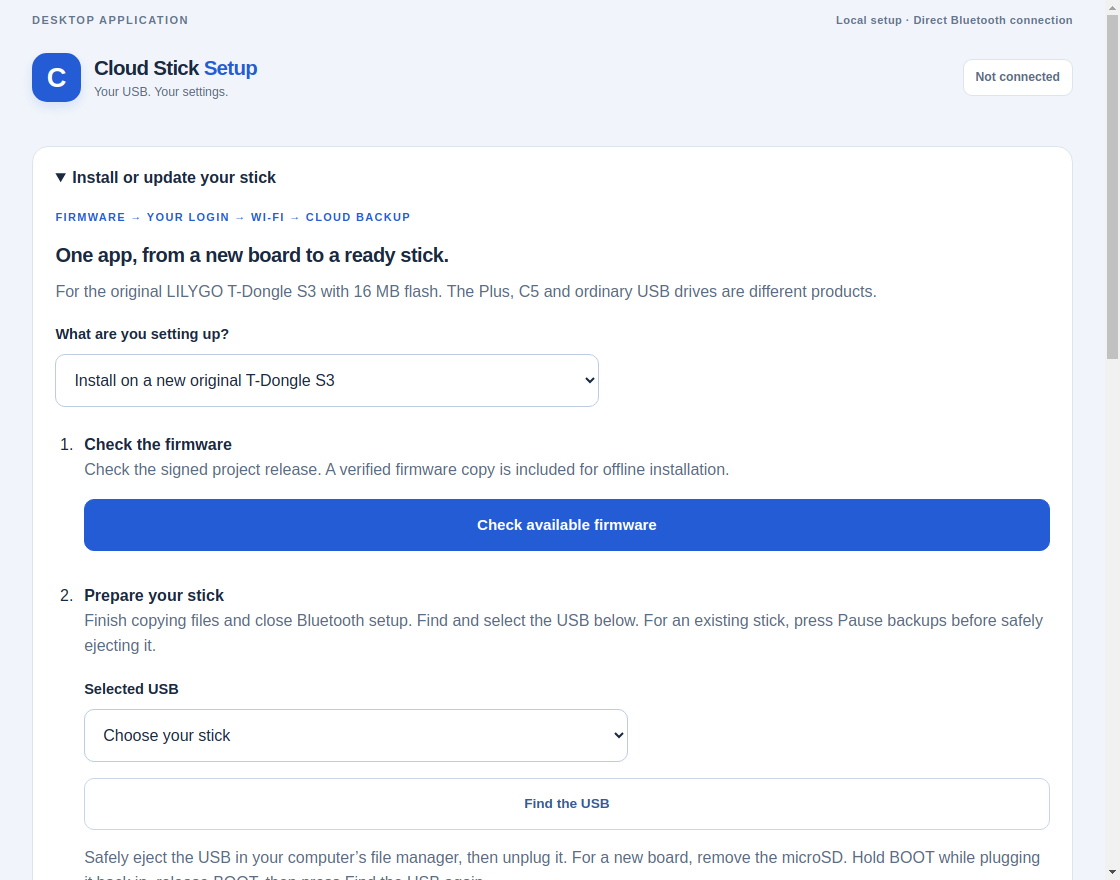
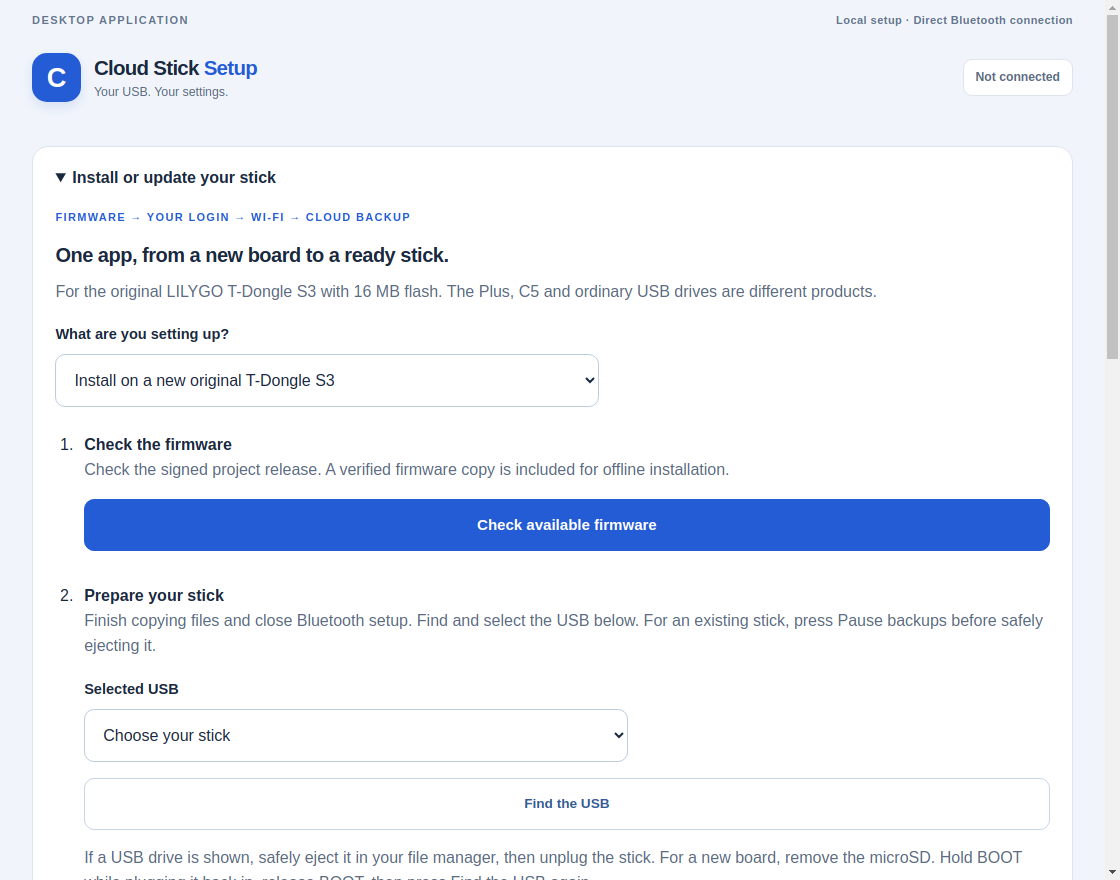
Explain microSD return after first-account setup

Changed region(s): [[0.0625, 0.9511, 0.9375, 1.0]]

diff --git a/desktop/frontend/index.html b/desktop/frontend/index.html
@@ -21,7 +21,7 @@
     <select id="firmware-mode"><option value="existing">Update my existing Cloud Stick</option><option value="new">Install on a new original T-Dongle S3</option></select>
     <ol class="firmware-steps">
      <li><strong>Check the firmware</strong><p>Check the signed project release. A verified firmware copy is included for offline installation.</p><button id="firmware-check" type="button" disabled>Check available firmware</button></li>
-     <li><strong>Prepare your stick</strong><p>Finish copying files and close Bluetooth setup. Find and select the USB below. For an existing stick, press Pause backups before safely ejecting it.</p><label for="firmware-ports">Selected USB</label><select id="firmware-ports"><option value="">Choose your stick</option></select><div class="desktop-actions"><button id="firmware-ports-refresh" type="button" class="wizard-secondary" disabled>Find the USB</button><button id="firmware-prepare" type="button" class="wizard-secondary" disabled>Pause backups for update</button></div><p>Safely eject the USB in your computer’s file manager, then unplug it. For a new board, remove the microSD. Hold BOOT while plugging it back in, release BOOT, then press Find the USB again.</p></li>
+     <li><strong>Prepare your stick</strong><p>Finish copying files and close Bluetooth setup. Find and select the USB below. For an existing stick, press Pause backups before safely ejecting it.</p><label for="firmware-ports">Selected USB</label><select id="firmware-ports"><option value="">Choose your stick</option></select><div class="desktop-actions"><button id="firmware-ports-refresh" type="button" class="wizard-secondary" disabled>Find the USB</button><button id="firmware-prepare" type="button" class="wizard-secondary" disabled>Pause backups for update</button></div><p>If a USB drive is shown, safely eject it in your file manager, then unplug the stick. For a new board, remove the microSD. Hold BOOT while plugging it back in, release BOOT, then press Find the USB again.</p></li>
      <li><strong>Install and verify</strong><p>The app checks the board and makes two encrypted recovery copies before writing. Recovery checks can take a while. Keep the USB connected and the computer powered.</p><button id="firmware-install" type="button" disabled>Review and install firmware</button><button id="firmware-resume" type="button" hidden disabled>Review and resume interrupted install</button></li>
     </ol>
     <progress id="firmware-progress" max="1" value="0" hidden aria-label="Firmware operation progress"></progress>
@@ -50,6 +50,7 @@
     <p id="wizard-description" class="wizard-description">One step at a time. Start with the stick plugged into this computer.</p>
    </div>
     <p id="wizard-message" class="wizard-message" role="status" aria-live="polite"></p>
+    <p id="wizard-card-reminder" class="notice" role="status" hidden>The first-account step required the microSD to be out. Finish Wi-Fi and cloud setup, then press Finish and wait for Bluetooth to close. If the card is still out, safely eject any drive shown, unplug the stick, insert the card while unplugged and reconnect normally. Your login and settings stay saved.</p>
     <p id="wizard-access-retirement" class="notice" role="status" hidden></p>
    <section class="wizard-panel" data-wizard-step="welcome" aria-labelledby="wizard-title">
     <div class="wizard-welcome-art" aria-hidden="true"><span class="wizard-usb-mark">CS</span><span class="wizard-link-mark"></span><span class="wizard-screen-mark">QA</span><span class="welcome-art-label">Your backup starts here.</span></div>
@@ -230,14 +231,14 @@
    </section>
    <section class="wizard-panel" data-wizard-step="finish" aria-labelledby="wizard-title" hidden>
     <div class="wizard-finish-mark" aria-hidden="true">✓</div>
-    <h2>Ready to leave it plugged in.</h2>
+    <h2 id="wizard-finish-title">Ready to leave it plugged in.</h2>
     <p id="wizard-finish-message" class="wizard-lead">Review your saved settings, then close Bluetooth setup. The stick checks Wi-Fi and cloud access before it can resume backups.</p>
     <p class="notice">Saved settings are not proof that a file has uploaded. The backup records show which file versions passed their cloud check.</p>
     <div class="wizard-finish-actions">
      <button id="wizard-disconnect" type="button">Finish — disconnect Bluetooth</button>
      <button id="wizard-records" type="button" class="wizard-secondary">View backup records</button>
     </div>
-    <p class="hint">Disconnect means closing the app’s Bluetooth session. Leave the USB physically plugged in.</p>
+    <p id="wizard-finish-hint" class="hint">Disconnect means closing the app’s Bluetooth session. Leave the USB physically plugged in.</p>
    </section>
    <section class="wizard-panel" data-wizard-step="records" aria-labelledby="wizard-title" hidden>
     <div class="records-toolbar"><div><p class="eyebrow">RECORDED / NOT LIVE</p><p id="records-read-at" class="snapshot-note"></p></div><button id="records-refresh" type="button" class="wizard-secondary">Refresh saved records</button></div><p id="records-message" class="notice" role="status" aria-live="polite"></p>

diff --git a/desktop/cloudstick_desktop/main.py b/desktop/cloudstick_desktop/main.py
@@ -269,7 +269,7 @@ class Bridge(QObject):
                           'existing': 'Update this existing Cloud Stick',
                           'resume': 'Resume the interrupted installation'}[data['mode']]
                 text = (action + '?\n\nFirmware: ' + target + '\nUSB port: ' + data['port'] +
-                        '\n\nConfirm this is the ORIGINAL 16 MB T-Dongle S3. Close file copies, safely eject it, '
+                        '\n\nConfirm this is the ORIGINAL 16 MB T-Dongle S3. Close file copies, safely eject any USB drive shown for it, unplug it, '
                         'then hold BOOT while plugging it back in and release BOOT. '
                         'Remove the microSD before installing a new board.\n\n'
                         'The app first makes and checks two private encrypted recovery copies. '

diff --git a/docs/INTEGRATED_SETUP.md b/docs/INTEGRATED_SETUP.md
@@ -25,8 +25,8 @@ If it cannot identify the stick safely, it stops and explains the next step.
 2. Press **Check available firmware**. The app checks the project's signed
    release. If the internet is unavailable, it can use the verified firmware
    included with the complete app installer.
-3. Close any file copies, safely eject the USB in your computer's file manager,
-   then unplug it. Remove its microSD before a first installation.
+3. Close any file copies. If a USB drive is shown, safely eject it in your file
+   manager, then unplug the stick. Remove its microSD before a first installation.
 4. Hold the board's **BOOT** button while plugging it back in. Release BOOT.
    Press **Find the USB** and select your stick.
 5. Press **Review and install firmware**. Check the separate confirmation window
@@ -35,8 +35,10 @@ If it cannot identify the stick safely, it stops and explains the next step.
 6. Press **Continue to login and Wi-Fi**. Find and check the USB in the setup
    wizard. Follow **Create my first account** to choose your username/password.
    Account creation has its own ten-second BOOT hold, followed by a sign-in check.
-7. Continue through Wi-Fi and cloud settings. Finish by disconnecting Bluetooth.
-   Leave the stick plugged in so it can check its connections and resume work.
+7. Continue through Wi-Fi and cloud settings, then press Finish and wait for
+   Bluetooth to close. Safely eject any drive shown and unplug the stick. Insert
+   the prepared microSD while unplugged, then reconnect normally. Your login and
+   settings stay saved. Leave power connected and try a small test file.
 
 The BOOT hold while plugging in starts firmware installation mode. The later
 BOOT hold for creating your account is a separate step while normal firmware is
